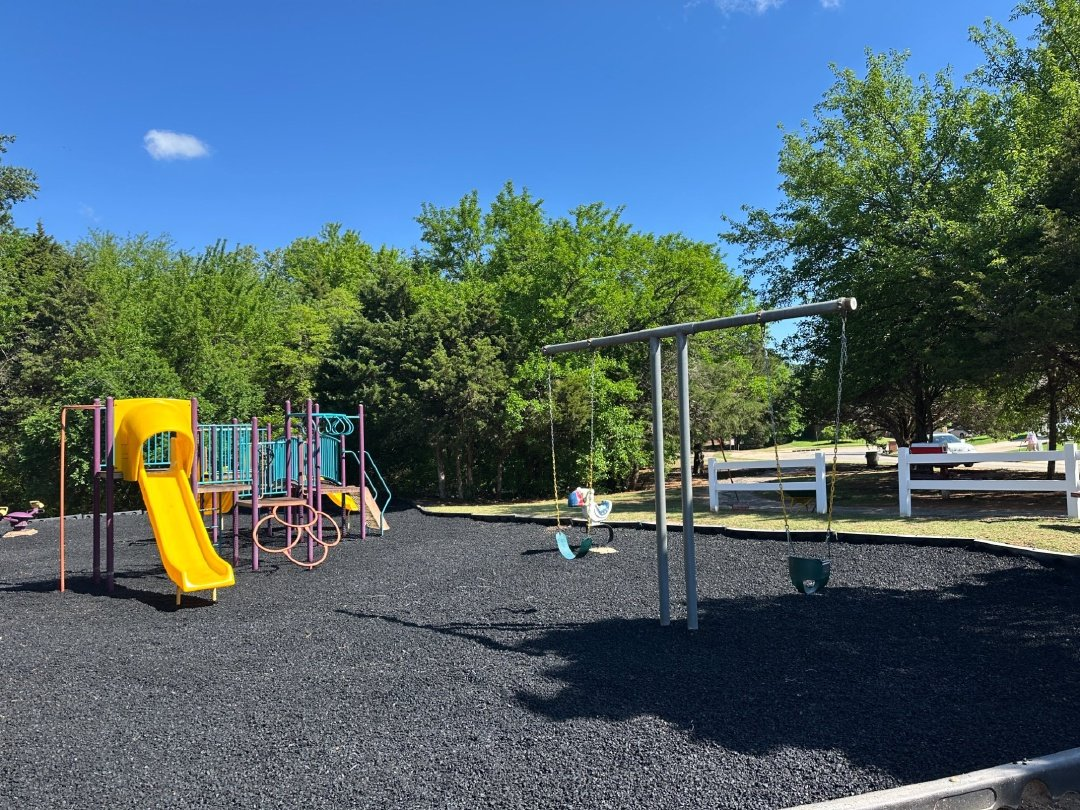
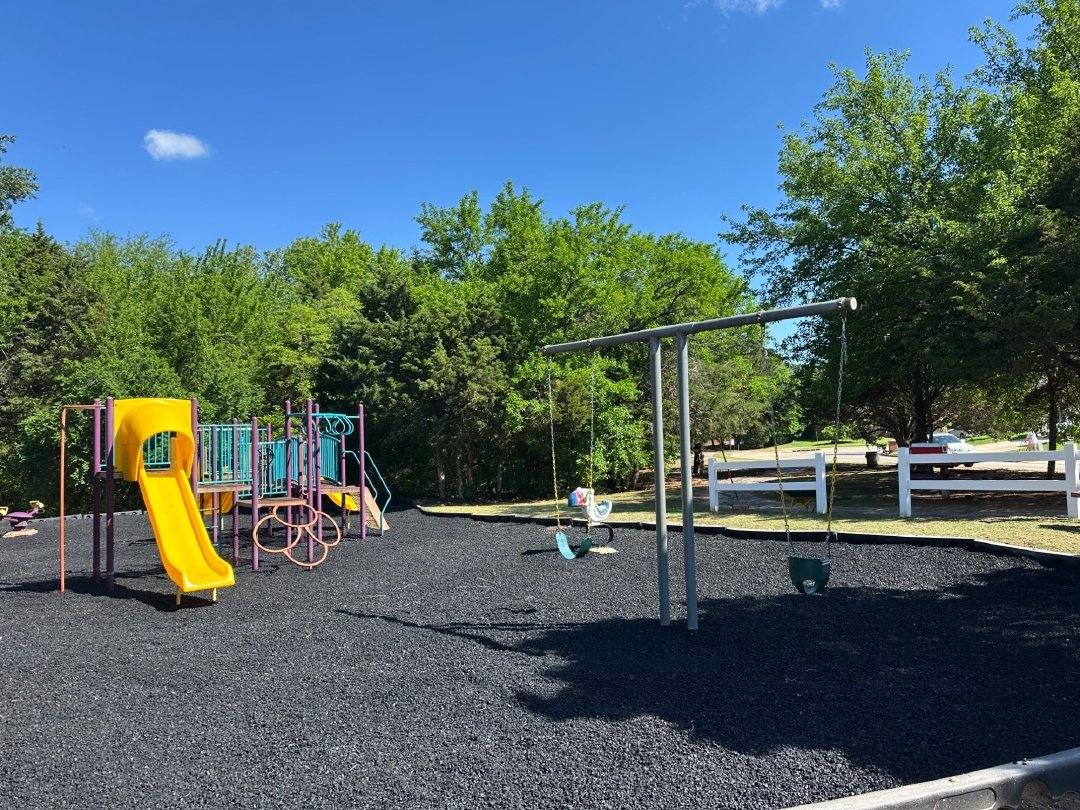
Speed: defer support.js, prioritise and recompress hero image
PageSpeed showed 1.8 s of LCP render delay from the synchronous support.js in
<head>. The static copy now paints first, so support.js can be deferred.
Hero /img/playground.jpg gets fetchpriority=high and is recompressed
(296 KB -> 225 KB, progressive). Tested locally: page, calculator and swap OK.

diff --git a/index.html b/index.html
@@ -3,7 +3,7 @@
 <head>
 <meta charset="utf-8">
 <meta name="viewport" content="width=device-width, initial-scale=1">
-<script src="/support.js"></script>
+<script defer src="/support.js"></script>
 <link rel="icon" href="/favicon.ico" sizes="any">
 <link rel="icon" type="image/png" sizes="192x192" href="/img/favicon-192x192.png">
 <link rel="icon" type="image/png" sizes="96x96" href="/img/favicon-96x96.png">
@@ -293,7 +293,7 @@
 
   
   <section data-dc-tpl="66" data-screen-label="Hero" style="position: relative; background: rgb(27, 36, 68); overflow: hidden;">
-    <img data-dc-tpl="67" src="/img/playground.jpg" alt="Commercial playground on black rubber mulch" style="position: absolute; inset: 0px; width: 100%; height: 100%; object-fit: cover; object-position: center 65%;">
+    <img data-dc-tpl="67" src="/img/playground.jpg" fetchpriority="high" alt="Commercial playground on black rubber mulch" style="position: absolute; inset: 0px; width: 100%; height: 100%; object-fit: cover; object-position: center 65%;">
     <div data-dc-tpl="68" style="position: absolute; inset: 0px; background: rgba(17, 20, 28, 0.58);"></div>
     <div data-dc-tpl="69" style="position: relative; max-width: 1240px; margin: 0px auto; padding: clamp(36px, 6vw, 120px) 24px clamp(48px, 7vw, 110px);">
       <div data-dc-tpl="70" style="max-width: 640px; display: flex; flex-direction: column; gap: 22px;">
@@ -753,7 +753,7 @@
 
   <!-- ===== Hero ===== -->
   <section data-screen-label="Hero" style="position: relative; background: #1B2444; overflow: hidden;">
-    <img src="/img/playground.jpg" alt="Commercial playground on black rubber mulch" style="position: absolute; inset: 0; width: 100%; height: 100%; object-fit: cover; object-position: center 65%;">
+    <img src="/img/playground.jpg" fetchpriority="high" alt="Commercial playground on black rubber mulch" style="position: absolute; inset: 0; width: 100%; height: 100%; object-fit: cover; object-position: center 65%;">
     <div style="position: absolute; inset: 0; background: rgba(17,20,28,.58);"></div>
     <div style="position: relative; max-width: 1240px; margin: 0 auto; padding: clamp(36px, 6vw, 120px) 24px clamp(48px, 7vw, 110px);">
       <div style="max-width: 640px; display: flex; flex-direction: column; gap: 22px;">

diff --git a/about/index.html b/about/index.html
@@ -3,7 +3,7 @@
 <head>
 <meta charset="utf-8">
 <meta name="viewport" content="width=device-width, initial-scale=1">
-<script src="/support.js"></script>
+<script defer src="/support.js"></script>
 <link rel="icon" href="/favicon.ico" sizes="any">
 <link rel="icon" type="image/png" sizes="192x192" href="/img/favicon-192x192.png">
 <link rel="icon" type="image/png" sizes="96x96" href="/img/favicon-96x96.png">

diff --git a/arkansas/index.html b/arkansas/index.html
@@ -3,7 +3,7 @@
 <head>
 <meta charset="utf-8">
 <meta name="viewport" content="width=device-width, initial-scale=1">
-<script src="/support.js"></script>
+<script defer src="/support.js"></script>
 <link rel="icon" href="/favicon.ico" sizes="any">
 <link rel="icon" type="image/png" sizes="192x192" href="/img/favicon-192x192.png">
 <link rel="icon" type="image/png" sizes="96x96" href="/img/favicon-96x96.png">

diff --git a/commercial-playgrounds/index.html b/commercial-playgrounds/index.html
@@ -3,7 +3,7 @@
 <head>
 <meta charset="utf-8">
 <meta name="viewport" content="width=device-width, initial-scale=1">
-<script src="/support.js"></script>
+<script defer src="/support.js"></script>
 <link rel="icon" href="/favicon.ico" sizes="any">
 <link rel="icon" type="image/png" sizes="192x192" href="/img/favicon-192x192.png">
 <link rel="icon" type="image/png" sizes="96x96" href="/img/favicon-96x96.png">

diff --git a/coverage-calculator/index.html b/coverage-calculator/index.html
@@ -3,7 +3,7 @@
 <head>
 <meta charset="utf-8">
 <meta name="viewport" content="width=device-width, initial-scale=1">
-<script src="/support.js"></script>
+<script defer src="/support.js"></script>
 <link rel="icon" href="/favicon.ico" sizes="any">
 <link rel="icon" type="image/png" sizes="192x192" href="/img/favicon-192x192.png">
 <link rel="icon" type="image/png" sizes="96x96" href="/img/favicon-96x96.png">

diff --git a/fundraiser/index.html b/fundraiser/index.html
@@ -3,7 +3,7 @@
 <head>
 <meta charset="utf-8">
 <meta name="viewport" content="width=device-width, initial-scale=1">
-<script src="/support.js"></script>
+<script defer src="/support.js"></script>
 <link rel="icon" href="/favicon.ico" sizes="any">
 <link rel="icon" type="image/png" sizes="192x192" href="/img/favicon-192x192.png">
 <link rel="icon" type="image/png" sizes="96x96" href="/img/favicon-96x96.png">

diff --git a/get-a-quote/index.html b/get-a-quote/index.html
@@ -3,7 +3,7 @@
 <head>
 <meta charset="utf-8">
 <meta name="viewport" content="width=device-width, initial-scale=1">
-<script src="/support.js"></script>
+<script defer src="/support.js"></script>
 <link rel="icon" href="/favicon.ico" sizes="any">
 <link rel="icon" type="image/png" sizes="192x192" href="/img/favicon-192x192.png">
 <link rel="icon" type="image/png" sizes="96x96" href="/img/favicon-96x96.png">

diff --git a/kansas/index.html b/kansas/index.html
@@ -3,7 +3,7 @@
 <head>
 <meta charset="utf-8">
 <meta name="viewport" content="width=device-width, initial-scale=1">
-<script src="/support.js"></script>
+<script defer src="/support.js"></script>
 <link rel="icon" href="/favicon.ico" sizes="any">
 <link rel="icon" type="image/png" sizes="192x192" href="/img/favicon-192x192.png">
 <link rel="icon" type="image/png" sizes="96x96" href="/img/favicon-96x96.png">

diff --git a/missouri/index.html b/missouri/index.html
@@ -3,7 +3,7 @@
 <head>
 <meta charset="utf-8">
 <meta name="viewport" content="width=device-width, initial-scale=1">
-<script src="/support.js"></script>
+<script defer src="/support.js"></script>
 <link rel="icon" href="/favicon.ico" sizes="any">
 <link rel="icon" type="image/png" sizes="192x192" href="/img/favicon-192x192.png">
 <link rel="icon" type="image/png" sizes="96x96" href="/img/favicon-96x96.png">

diff --git a/oklahoma/index.html b/oklahoma/index.html
@@ -3,7 +3,7 @@
 <head>
 <meta charset="utf-8">
 <meta name="viewport" content="width=device-width, initial-scale=1">
-<script src="/support.js"></script>
+<script defer src="/support.js"></script>
 <link rel="icon" href="/favicon.ico" sizes="any">
 <link rel="icon" type="image/png" sizes="192x192" href="/img/favicon-192x192.png">
 <link rel="icon" type="image/png" sizes="96x96" href="/img/favicon-96x96.png">

diff --git a/premium-quality/index.html b/premium-quality/index.html
@@ -3,7 +3,7 @@
 <head>
 <meta charset="utf-8">
 <meta name="viewport" content="width=device-width, initial-scale=1">
-<script src="/support.js"></script>
+<script defer src="/support.js"></script>
 <link rel="icon" href="/favicon.ico" sizes="any">
 <link rel="icon" type="image/png" sizes="192x192" href="/img/favicon-192x192.png">
 <link rel="icon" type="image/png" sizes="96x96" href="/img/favicon-96x96.png">

diff --git a/terms/index.html b/terms/index.html
@@ -3,7 +3,7 @@
 <head>
 <meta charset="utf-8">
 <meta name="viewport" content="width=device-width, initial-scale=1">
-<script src="/support.js"></script>
+<script defer src="/support.js"></script>
 <link rel="icon" href="/favicon.ico" sizes="any">
 <link rel="icon" type="image/png" sizes="192x192" href="/img/favicon-192x192.png">
 <link rel="icon" type="image/png" sizes="96x96" href="/img/favicon-96x96.png">
